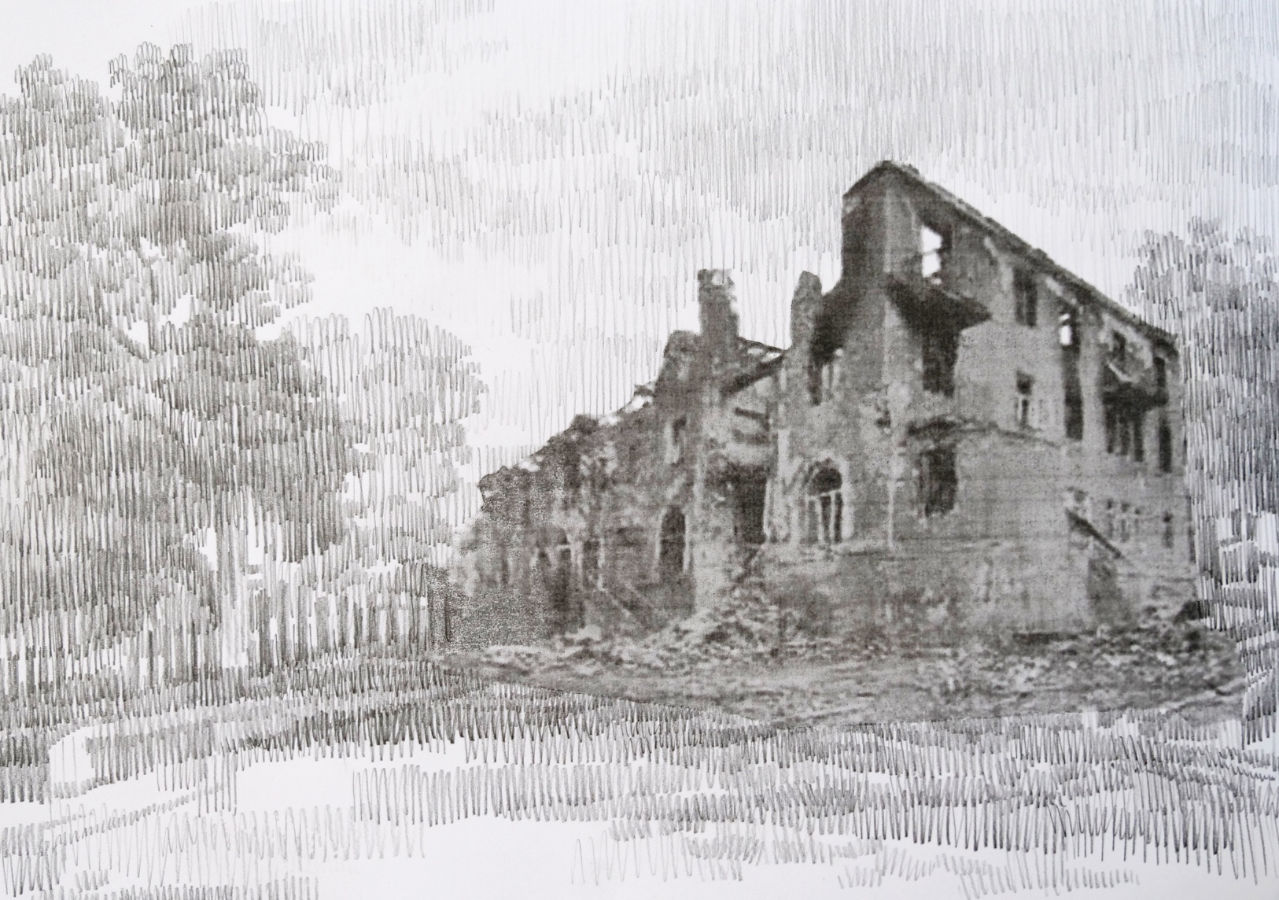
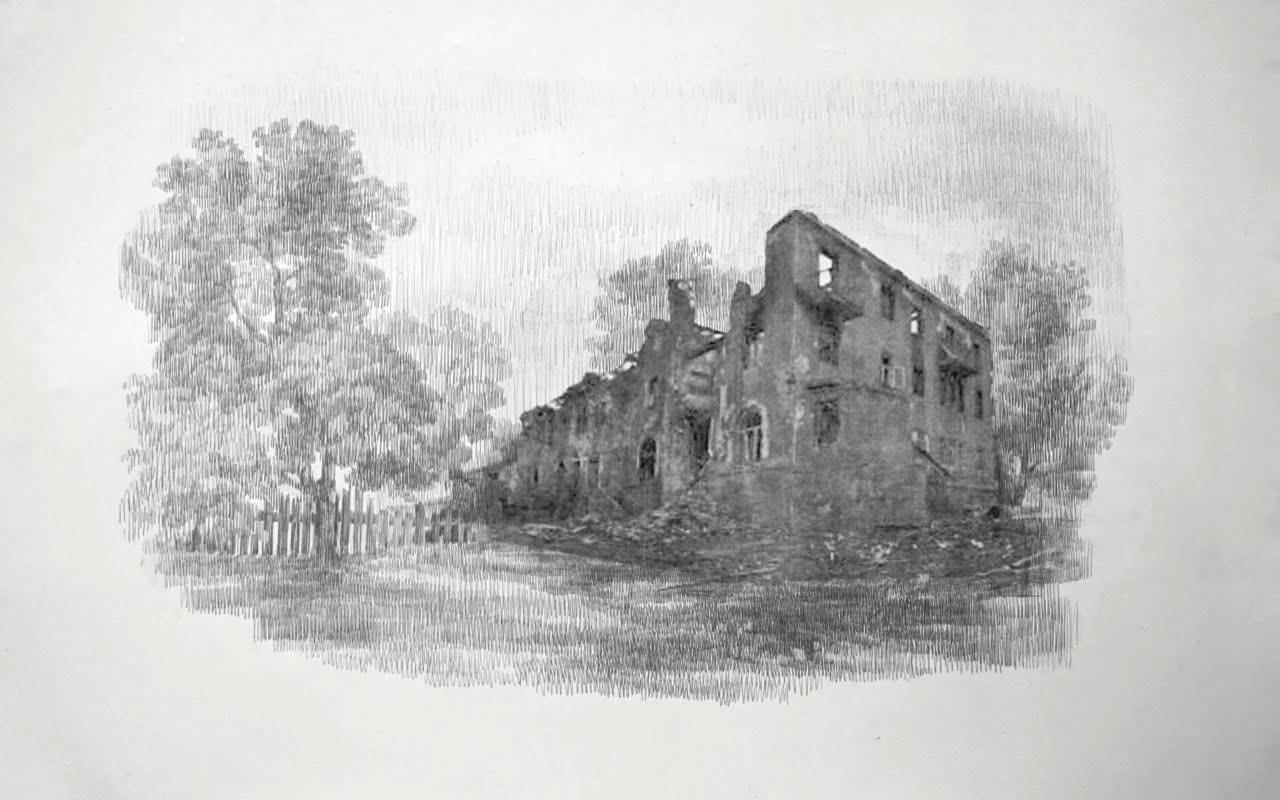
Added Cromwell Place Exhibition

diff --git a/about.html b/about.html
@@ -3,38 +3,41 @@ layout: wrapper
 title: Artists for Ukraine | About
 ---
 <h2>WHAT IS HAPPENING?</h2>
-<p>On 24 February 2022 the Russian Federation launched a full-scale invasion of Ukraine, attacking urban centres across the country including Kyiv and Kharkiv on the ground and launching missile strikes towards every region of the country. This follows Russia's previous illegal annexation of Crimea and the support of separatists in Ukraine's Donetsk and Luhansk oblasts in 2014. More than <a href="https://data2.unhcr.org/en/situations/ukraine">6.8 million refugees have fled the country</a>, and around a third of the country is displaced.</p>
+<p>The Russian war against Ukraine has now entered its second year after the beginning of the full-scale invasion of 24 February 2022, upon which urban centres across the country including Kyiv and Kharkiv have been bombarded by shelling and missile strikes. This follows Russia's illegal annexation of Crimea and the support of violent separatists in Ukraine's Donetsk and Luhansk oblasts in 2014. More than <a href="https://data2.unhcr.org/en/situations/ukraine">8 million refugees have fled the country</a>, and around a third of the country is displaced.</p>
 
 
 <h2>THE HUMANITARIAN SITUATION</h2>
 <p>The invasion of Ukraine has caused the <a href="https://www.theguardian.com/world/2022/mar/08/we-couldnt-stand-it-the-ukrainians-travelling-for-days-to-flee-russian-bombs-and-rockets">biggest refugee crisis in Europe since the second world war</a>.</p>
 
-<p>Those fleeing from Russian advancement and arriving in the western Ukraine are in urgent need of essentials including food, medical supplies, temporary shelters, and protective equipment. While large organisations are providing support, it is small, often self-organised groups that are making the crucial difference on the ground.</p>
+<p>Those fleeing from Russian advancement and arriving in the western Ukraine, as well as those still close to the front line are still in urgent need of essentials including food, medical supplies, temporary shelters, and protective equipment. While large organisations are providing support, it is small, often self-organised groups that are making the crucial difference on the ground.</p>
 
+<h2>OUR COLLECTION</h2>
+<p>Since the start of the full scale invasion, we have been working with over 80 of Ukraine's most prominent and leading contemporary artists including Nikita Kadan, Zhanna Kadyrova, Igor Gusev, Lada Nakonechna, Yaroslav Futymskyi, Kateryna Lysovenko, Oleg Tistol, Pavlo Makov, Oleg Tistol and Oleksiy Sai to build an extensive collection of Ukrainian art in the UK. Assembling works created across generations and across place in time, including as a direct response to the invasion, the collection has become both a kind of war diary and a chronicle of Ukraine's cultural development since independence. We have also been proud to house generous contributions to the collecton by contemporary artists from the UK.</p>
+
+<p>We hope to commence a creative dialogue on the issues of war, displacement, imperialism and genocide. How does this war challenge our perceptions (and misperceptions) of Ukrainian identity? Why do cultural heritage and appropriation matter? How have artists shifted their perspectives on their creative processes and what are the strategies for recovery?</p>
+
+<p>The works featured in our collection have been exhibited over the past year in London, Reading and Farnham. In order to raise funds for our initiative, we have been selling works from this collection at fundraising exhibitions and through our website.</p>
+
+<h2>OUR FUNDRAISING</h2>
+<p>We are proud to support Kukhnia, a group of artists and activists supporting refugees displaced withing Ukraine through grassroots organisation. What started as a small project to feed refugees ariving in Lviv station has become a large network of volunteers, whose recent work included building large temporary shelters and bringing supplies to liberated cities such as Bucha and the Chernihiv region, where they are supporting the rebuilding efforts. We are pleased to support this group together with friends in the Netherlands.</p>
+
+<p>To see how your donations are making a difference, please follow our website to stay up to date with the great work done on the ground by Kukhnia. Donations to Artists for Ukraine are essential to help keep groups like Kukhnia helping internally displaced refugees in need. You can donate directly through our <a href="/">homepage</a> and by purchasing an artwork through our <a href="/shop">shop</a> or in person at one of our exhibitions.</p>
 <h2>WHO ARE WE?</h2>
 
-<p>We are a group of artists and friends with connections to Ukraine and those working every day to provide help in the country.</p>
-
-<p>You can donate to our campaign by purchasing artworks from our <a href="/shop">fundraising exhibition</a>. We have brought together works by some of Ukraine's most well-known artists, as well as artists from the United Kingdom and the local community. Alternatively, you can also donate directly to our cause. All funds will be used to support independent organisations working to support refugees in Ukraine.</p>
-
-<h2>OUR WORK SO FAR</h2>
-
-<p>We are proud to support Kukhnia, a group of artists and activists who started their organisation to feed refugees arriving in Lviv, and are now building large temporary shelters. They have also sent supplies to the liberated city of Bucha and the Chernihiv region, where they are supporting rebuilding efforts.</p>
-
-<p>The success of recent events in Reading and Farnham, as well as the immense solidarity from local organisations such as Reading School has shown the massive scale of support that exists for Ukraine and for those who still need urgent help.</p>
+<p>We are a group of Ukrainians and friends of Ukraine in the UK, with connections to grassroots networks such as Kukhnia that support internally displaced refugees. Please reach out to any of us if you would like to find out more about our work and the collection of art that we have assembled.</p>
 
 <h2>CONTACT US</h2>
 
-<p><a href="mailto:susanne@szuper.org">Susanne Clausen</a>, Artist and Professor of Fine Art, University of Reading</p>
+<p><a href="mailto:susanne@szuper.org">Susanne Clausen</a>, Artist and Professor of Fine Art at the University of Reading</p>
 
 <p><a href="mailto:kerestey@gmail.com">Pavlo Kerestey</a>, Artist</p>
 
-<p><a href="mailto:u.kerestey@gmail.com">Uriel Kerestey</a>, BSc Student, London School of Economics</p>
+<p><a href="mailto:u.kerestey@gmail.com">Uriel Kerestey</a>, BSc Candidate at the London School of Economics</p>
 
 <p><a href="mailto:steph@welikedetail.com">Stéphanie Mitchell</a>, Project Manager and Cultural Consultant</p>
 
 <p>Ollie Musson, Artist</p>
 
-<p>Constance Uzwyshyn, PhD Candidate, University of Cambridge (Ukrainian Contemporary Art)</p>
+<p>Constance Uzwyshyn, PhD Candidate at the University of Cambridge (Ukrainian Contemporary Art)</p>
 
-<p>Caroline Ingram MBE, Lecturer in Law, The Open University and Enamel Artist</p>
+<p>Caroline Ingram MBE, Lecturer in Law at the Open University and Enamel Artist</p>

diff --git a/index.html b/index.html
@@ -140,7 +140,7 @@ title: Artists for Ukraine
 
   .shop-link-banner {
     background: rgb(255,255,186);
-    background: linear-gradient(90deg, rgba(255,255,186,1) 20%, rgba(210,222,255,1) 80%);
+    background: linear-gradient(45deg, rgba(255,255,186,1) 20%, rgba(210,222,255,1) 80%);
     width: 100%;
     height: 230px;
     left: 0;
@@ -285,9 +285,9 @@ title: Artists for Ukraine
 
 <div class="shop-link-banner">
   <center>
-  <h2 class="shop-link-title">VISIT UKRAINIAN WARTIME POSTERS FROM 31 JANUARY</h2>
+  <h2 class="shop-link-title">VIEW OUR COLLECTION AT CROMWELL PLACE LONDON BETWEEN 5 - 9 APRIL</h2>
   <br>
-  <a class="shop-link" href="/news/2023/01/31/ukrainian-wartime-posters">MORE INFO</a>
+  <a class="shop-link" href="/news/2023/04/05/spirit-of-ukraine">MORE INFO</a>
   </center>
 </div>
 

diff --git a/_includes/footer.html b/_includes/footer.html
@@ -91,6 +91,6 @@
   <div class="footer-splitter"></div>
 
   <div class="footer-column">
-    <p>We are still selling artwork in person! Visit our fundraising exhibition at 571 Oxford Road, Reading RG30 1HW.
+    <!--<p>We are still selling artwork in person! Visit our fundraising exhibition at 571 Oxford Road, Reading RG30 1HW.-->
   </div>
 </div>

diff --git a/_posts/news/2023-04-05-spirit-of-ukraine.md b/_posts/news/2023-04-05-spirit-of-ukraine.md
@@ -1,0 +1,33 @@
+---
+layout: post
+title:  Spirit of Ukraine, Cromwell Place London
+category: news
+date:   2023-04-05
+image:  /artwork/ruin.jpg
+image-text: Lada Nakonechna (2019)
+---
+# EXHIBITION OF THE ARTISTS FOR UKRAINE COLLECTION: 5 - 9 APRIL AT CROMWELL PLACE LONDON
+
+Artists for Ukraine is pleased to present the display a selection of works from our collection at Cromwell Place London as part of the exhibition <a href="https://www.cromwellplace.com/whats-on/art-in-conflict">_Spirit of Ukraine_</a> curated by Nataliya Lysovenko. The collection will be shown alongside an auction of works by Ukrainian artists including Maria Prymachenko, the renowned artist whose dedicated museum was burned down by Russian armed forces last year.
+
+Artists on display from the Artists for Ukraine collection include Zhanna Kadyrova, Lada Nakonechna, Yaroslav Futymskyi, Yuri Leiderman, Igor Gusev, Natalia Lisova, Nikita Kadan, Oleksiy Sai and Alevtina Kakhidze.
+
+To visit the exhibition, please book a free ticket <a href="https://www.tickettailor.com/events/cromwellplace/876454">here</a>.
+
+### Dates
+
+5 April - 9 April, 2023
+
+### Opening Times
+
+Wedesday to Saturday, 10am - 6pm
+
+Sunday, 10am - 4pm
+
+### Address:
+
+4 Cromwell Place
+
+London, SW7 2JE
+
+United Kingdom
